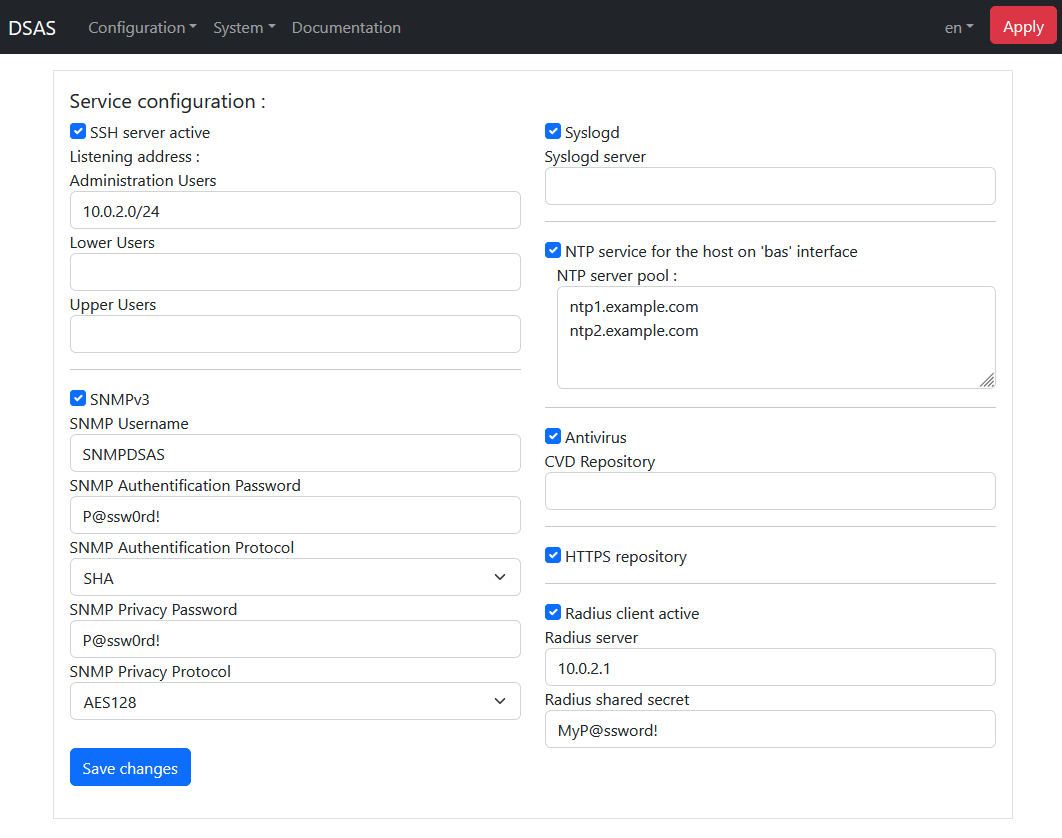
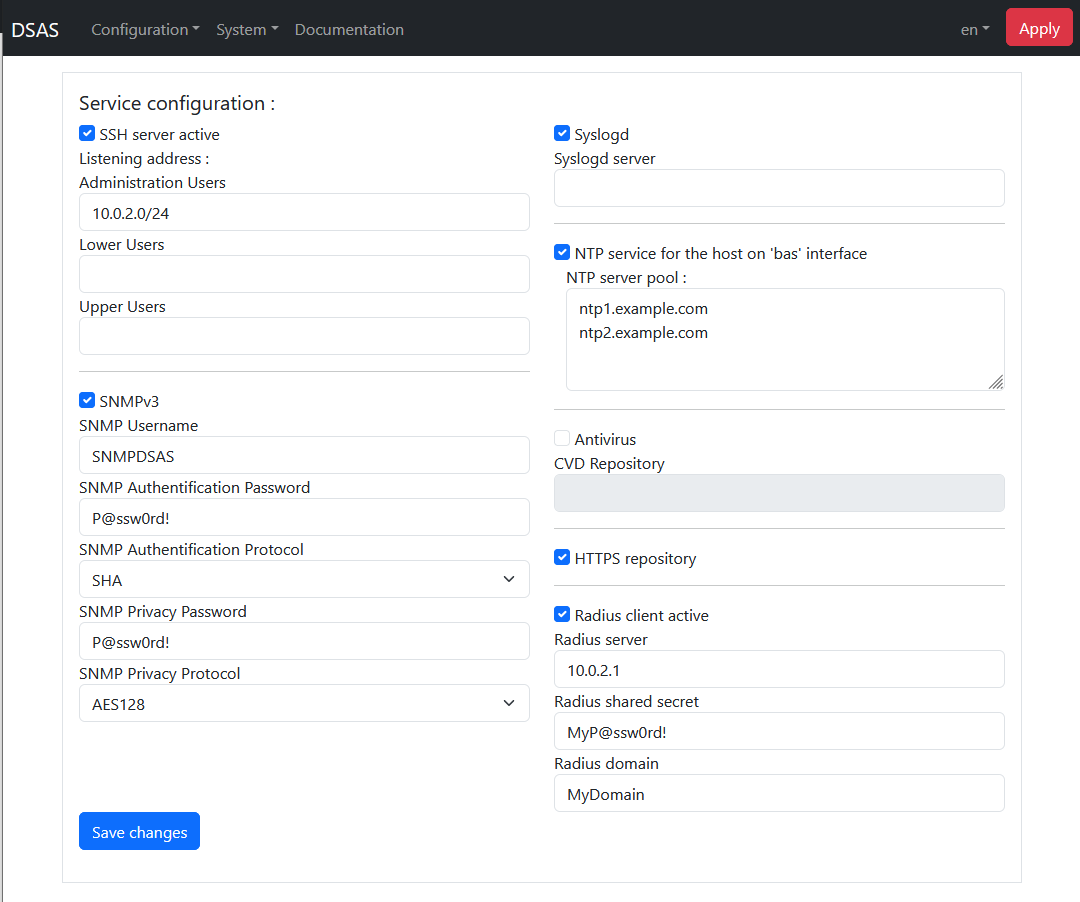
docs: Document the changes for the addition of the radius domains

diff --git a/append/usr/local/share/www/Documentation_en.md b/append/usr/local/share/www/Documentation_en.md
@@ -1031,6 +1031,17 @@ RADIUS_REQUEST packet between the Radius client and server, can easily be
 replayed. This means the network connection between the client and server
 needs to be physically secured.
 
+The radius configuration needs an address of the radius server, a secret
+shared with the radius server and optionally a domain. If the domain is
+configured, the local user name is modified for the radius requests like
+
+```
+Domain/Username
+```
+
+with a slash between the domain and user name. If the domain is not supplied
+the local user name is used for the radius requests.
+
 # DSAS Operation
 
 ## Status of machines
@@ -1544,7 +1555,7 @@ Software impacted by this risk
 | php-cgi | [8.2.0](http://tinycorelinux.net/15.x/x86/tcz/php-8.2-cgi.tcz) | Backend of the administration site |
 | lighttpd | [1.4.58](http://tinycorelinux.net/15.x/x86/tcz/lighttpd.tcz) | Backend of the administration site |
 | Linux PAM | [1.5.3](https://github.com/linux-pam/linux-pam/releases/download/v1.5.3/Linux-PAM-1.5.3.tar.xz) | Authentication on the administration site |
-| DSAS website | [3.0.4](https://gitlab.com/groupe-edf/dsas-tinycore) | Backend and frontend of the administration site |
+| DSAS website | [3.0.3](https://gitlab.com/groupe-edf/dsas-tinycore) | Backend and frontend of the administration site |
 
 The DSAS website is specially developed for this project. Static analysis
 of the code and a test suite is used on this code before each release to

diff --git a/append/usr/local/share/www/Documentation_fr.md b/append/usr/local/share/www/Documentation_fr.md
@@ -1067,6 +1067,18 @@ RADIUS_REQUEST de la client et sa rejoue pourrait permettre un authetification
 sans mot de passe. Ceci veut dire que la connexion réseau entre le client et
 serveur doit-être physiquement sécurisé.
 
+La configuration du Radius a besoin un adresse du serveur radius, un secret
+partagé avec le serveur radius et optionnellement une domaine.Si une domaine
+est configuré, le nom d'utilisateur local est modifié pour les requêtes
+radius comme
+
+```
+Domaine/Nom d'utilisateur
+```
+
+avec un slash entre la domaine et le nom d'utilisateur. Si la domaine n'est 
+pas fournit, le nom d'utilisateur local est utilisé pour les requêtes radius.
+
 # Exploitation du DSAS
 
 ## Statut des machines
